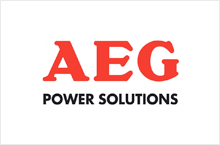
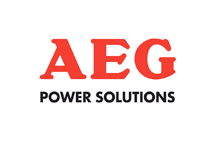
Убрал рамки изображений

diff --git a/index.html b/index.html
@@ -164,7 +164,7 @@
       <section class="contacts">
         <h2 class="contacts-title">контакты</h2>
           <p class="contacts-desription">Вы можете забрать товар сами, заехав в наш офис</p>
-          <img class="contacts-map" src="img/map.jpg"  width="300" height="158" alt="карта с отметкой">
+          <img class="contacts-map" src="img/map.jpg"  width="300" height="158" alt="г.Санкт-Петербург, ул.Б.Конюшенная,д.19/8">
           <a class="button-map" href="contact-us">Заблудились? Напишите нам!</a>
       </section>
     </main>
